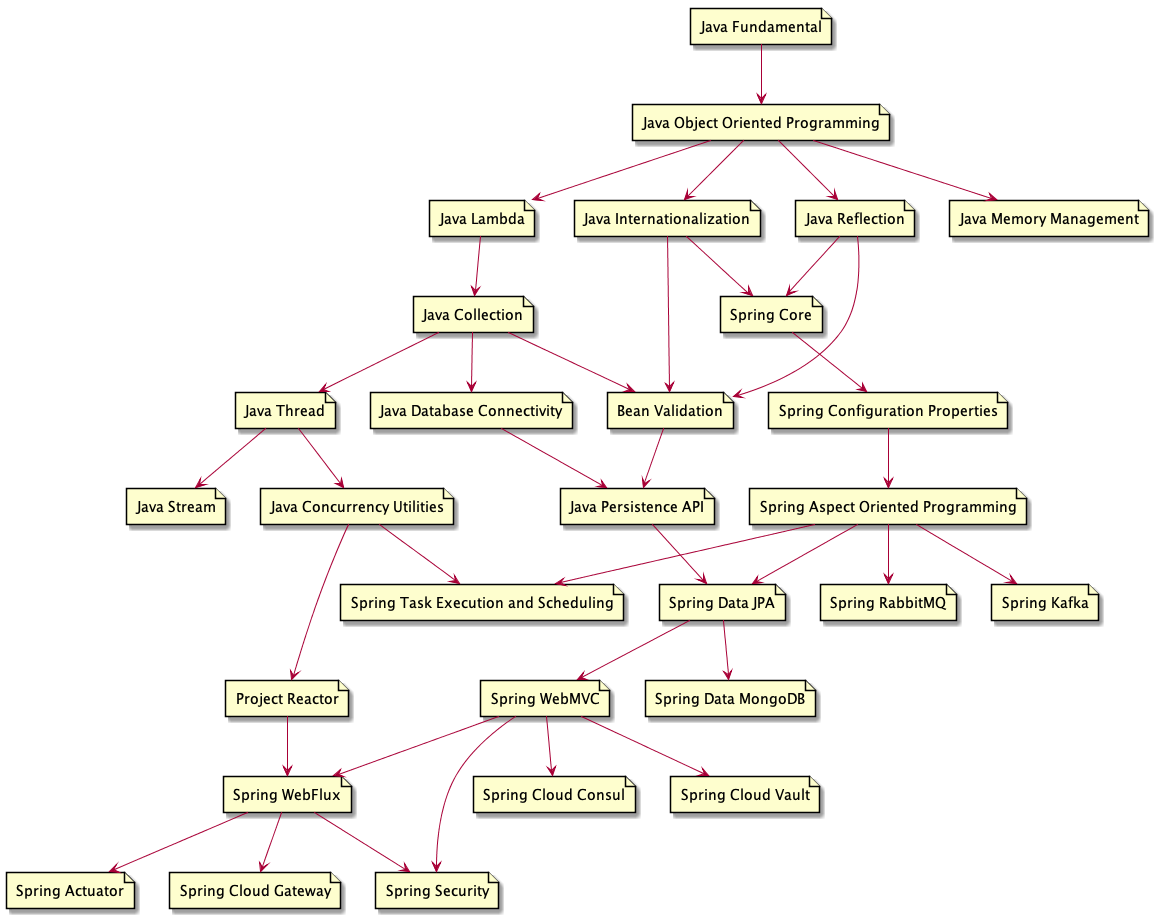
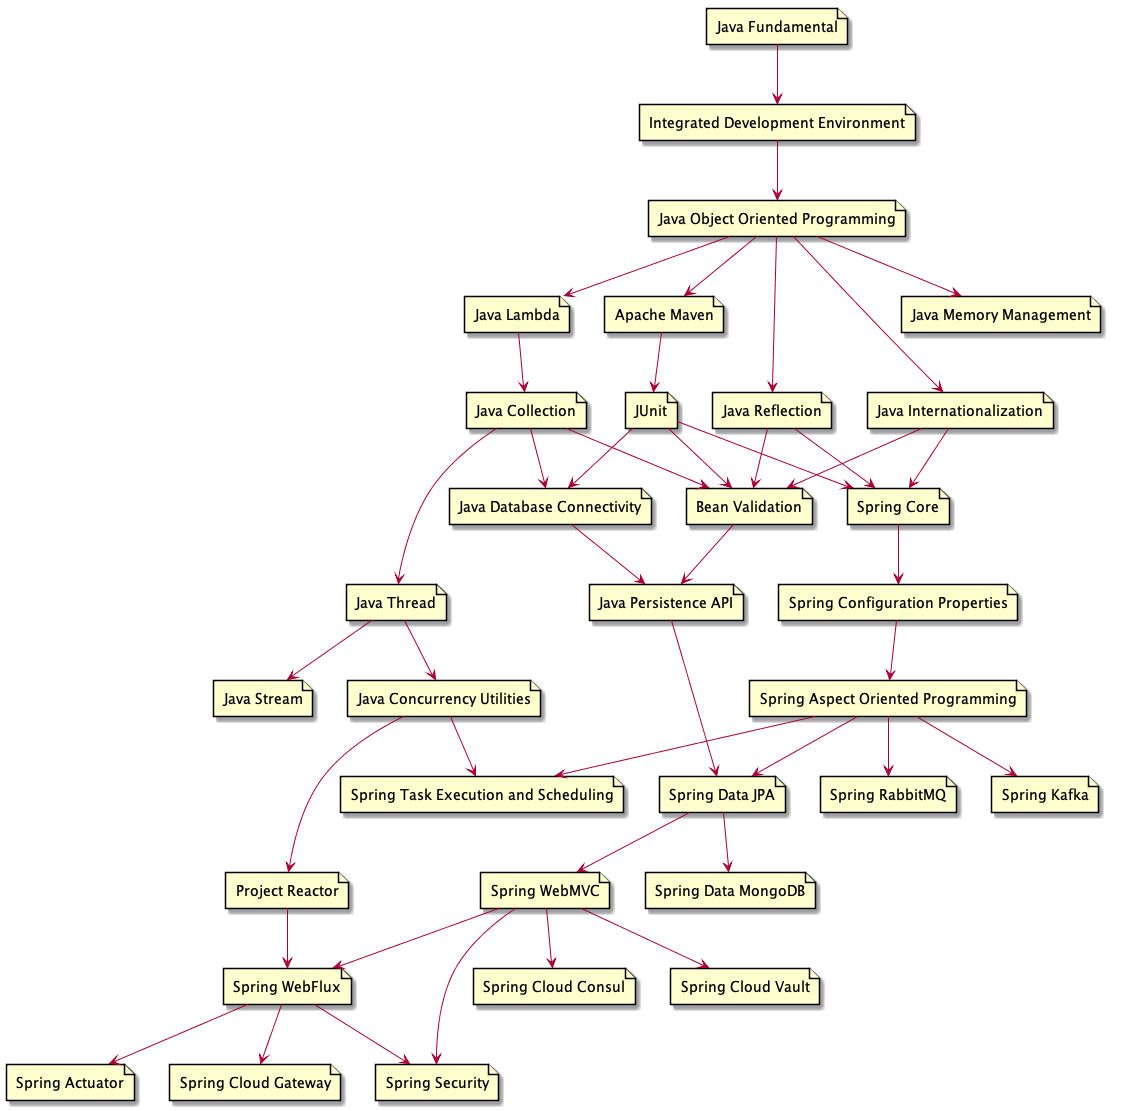
change to svg

Changed region(s): [[0.0, 0.0914, 0.9991, 1.0], [0.5932, 0.0, 0.7806, 0.0609]]

diff --git a/README.md b/README.md
@@ -1,6 +1,6 @@
 # Belajar Java
 
-![Learning Path Belajar Java](diagram/java-learning-path.png)
+![Learning Path Belajar Java](diagram/java-learning-path.svg)
 
 ## Java Standard Edition
 - Java Fundamental
@@ -37,4 +37,6 @@
 - Spring Security
 
 ## Other Framework
+- JUnit
+- Apache Maven
 - Project Reactor
